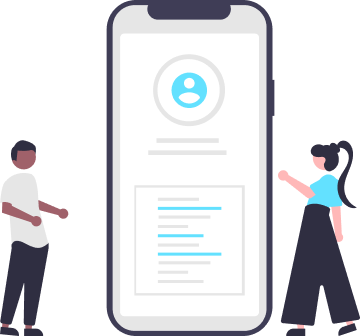
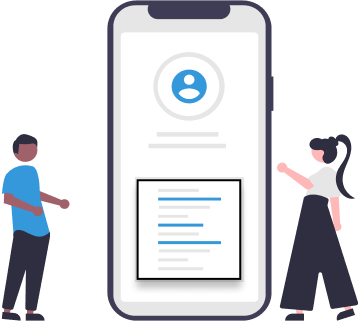
Add ToDo app with flutter

diff --git a/lib/app/view/splash_page.dart b/lib/app/view/splash_page.dart
@@ -11,9 +11,9 @@ class SplashPage extends StatelessWidget {
           Row(
             children: [
               Image.asset(
-                'assets/images/shape.png',
-                width: 141,
-                height: 129,
+                'assets/images/splash-1.png',
+                width: 248,
+                height: 184,
               ),
             ],
           ),
@@ -40,14 +40,16 @@ class SplashPage extends StatelessWidget {
             height: 21,
           ),
 
-          Padding(
-            padding: const EdgeInsets.symmetric(horizontal: 32),
-            child: Text(
-                'La mejor forma para que no se te olvide nada es anotarlo. Guardar tus tareas y ve completando poco a poco para aumentar tu productividad.',
-            textAlign: TextAlign.center,
-            style: Theme.of(context).textTheme.bodyText2!.copyWith(fontWeight: FontWeight.w400, fontSize: 15),
-             ),
-          )
+          GestureDetector(
+            child: Padding(
+              padding: const EdgeInsets.symmetric(horizontal: 32),
+              child: Text(
+                  'La mejor forma para que no se te olvide nada es anotarlo. Guardar tus tareas y ve completando poco a poco para aumentar tu productividad.',
+              textAlign: TextAlign.center,
+              style: Theme.of(context).textTheme.bodyText2!.copyWith(fontWeight: FontWeight.w400, fontSize: 15),
+               ),
+            ),
+          ),
         ],
       ),
     );

diff --git a/lib/app/view/taskList_page.dart b/lib/app/view/taskList_page.dart
@@ -1,0 +1,43 @@
+import 'package:flutter/material.dart';
+
+class TaskListPage extends StatefulWidget {
+  const TaskListPage({Key? key}) : super(key: key);
+
+  @override
+  State<TaskListPage> createState() => _TaskListPageState();
+}
+
+class _TaskListPageState extends State<TaskListPage> {
+  int count = 0;
+
+  //Method initState: Para inicializar el estado de una variable lo hacemos dentro de este méthod
+  @override
+  void initState() {
+    // TODO: implement initState
+    super.initState();
+  }
+
+  //Method dispose: Se ejecuta justo antes de eliminar la instancia de este widget
+  @override
+  void dispose() {
+    // TODO: implement dispose
+    super.dispose();
+  }
+
+  @override
+  Widget build(BuildContext context) {
+    return Scaffold(
+      body: Center(
+        child: Text('Hola el contador es $count'),
+      ),
+      floatingActionButton: FloatingActionButton(
+        onPressed: () {
+          count++;
+          setState(() {});
+          ;
+        },
+        child: Icon(Icons.add),
+      ),
+    );
+  }
+}

diff --git a/lib/app/app.dart b/lib/app/app.dart
@@ -1,6 +1,7 @@
 import 'package:flutter/material.dart';
 import 'package:to_do_list/app/view/home.dart';
 import 'package:to_do_list/app/view/splash_page.dart';
+import 'package:to_do_list/app/view/taskList_page.dart';
 
 class MyApp extends StatelessWidget {
   const MyApp({super.key});
@@ -9,7 +10,7 @@ class MyApp extends StatelessWidget {
   Widget build(BuildContext context) {
 
     //Theme Colors.
-    const primaryColor = Color(0xFF40B7AD);
+    const primaryColor = Color(0xFF3498DB);
     const textColor = Color(0xFF4A4A4A);
     const backgroundColor = Color(0xFFF5F5F5);
 
